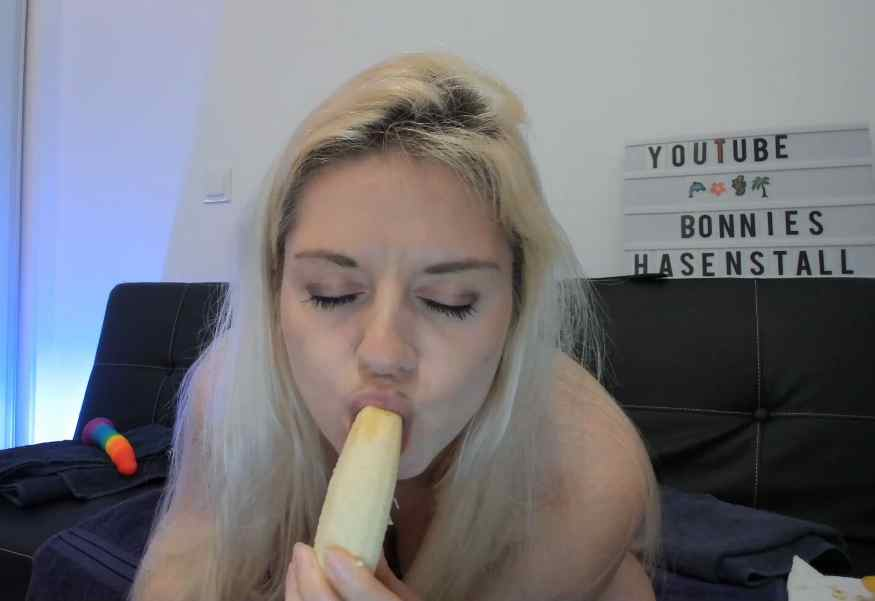
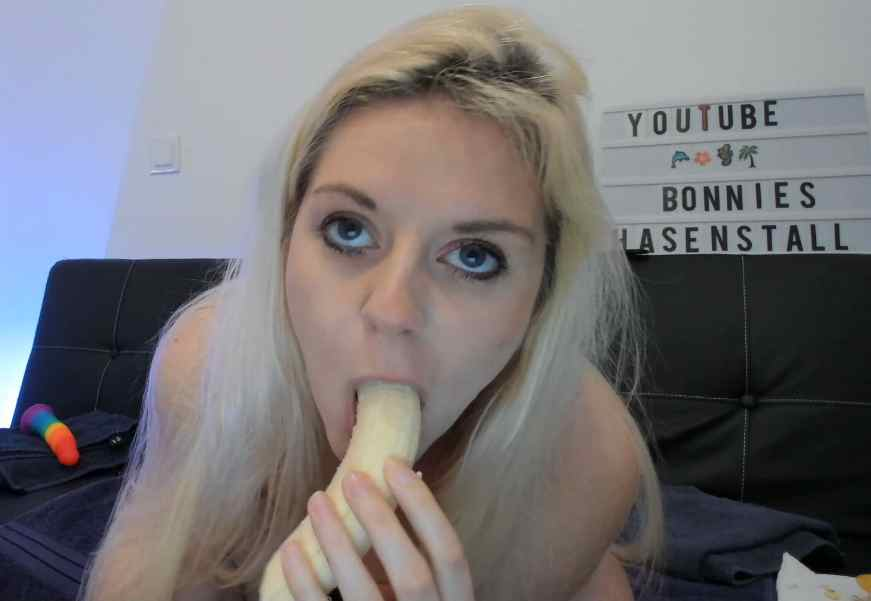
Commit to YOURCURRENTBRANCH

diff --git a/girls/bonnie/_vti_cnf/jungespaar2822.htm b/girls/bonnie/_vti_cnf/jungespaar2822.htm
@@ -1,11 +1,11 @@
 vti_encoding:SR|utf8-nl
 vti_author:SR|Office-PC\\Office
 vti_modifiedby:SR|Office-PC\\Office
-vti_timelastmodified:TR|24 May 2020 07:50:08 -0000
+vti_timelastmodified:TR|24 May 2020 07:59:40 -0000
 vti_timecreated:TR|03 Nov 2019 10:23:31 -0000
 vti_title:SR|Die Livecam der Bonnie (jungespaar2822) live aus Madeira
 vti_extenderversion:SR|12.0.0.0
-vti_nexttolasttimemodified:TW|21 May 2020 07:49:58 -0000
+vti_nexttolasttimemodified:TR|24 May 2020 07:58:58 -0000
 vti_backlinkinfo:VX|index.htm girls/bonnie/jungespaar2822.htm AAAltes\\ Zeug/lisa/index.htm girls/hotbella/index.htm girls/sastina/index.htm girls/index.htm kimilee22/index.htm girls/veronika_rose/index.htm
 vti_syncofs_webcam-darstellerin.com\:21/webcam-darstellerin.com:TW|14 Nov 2019 10:40:54 -0000
 vti_syncwith_webcam-darstellerin.com\:21/webcam-darstellerin.com:TX|12 Nov 2019 11:52:58 -0000
@@ -18,12 +18,12 @@ vti_syncwith_93.104.209.49\:21/%2fhttpdocs/webcam-darstellerin.com:TX|11 Feb 202
 vti_syncofs_93.104.209.49\:21/%2fhttpdocs/webcam-darstellerin.com:TW|11 Feb 2020 15:27:44 -0000
 vti_syncwith_ftpupload.net\:21/%2fwebcam-darstellerin.com/htdocs:TX|11 Feb 2020 15:26:57 -0000
 vti_syncofs_ftpupload.net\:21/%2fwebcam-darstellerin.com/htdocs:TW|14 Feb 2020 19:49:24 -0000
-vti_cacheddtm:TX|24 May 2020 07:50:08 -0000
-vti_filesize:IR|11965
+vti_cacheddtm:TX|24 May 2020 07:59:40 -0000
+vti_filesize:IR|12095
 vti_cachedtitle:SR|Die Livecam der Bonnie (jungespaar2822) live aus Madeira
 vti_cachedbodystyle:SR|<body style="background-color: #FFD7D7; margin-left: 0; margin-right: 0; margin-top: 0;">
-vti_cachedlinkinfo:VX|H|../../index.htm S|../../dateien-deutsche-camgirls/banner.jpg K|jungespaar2822.htm K|jungespaar2822.htm S|jungespaar2822.jpg H|Das\\ deutschsprachige\\ Webcam-Girl\\ Bonnie\\ alias\\ Jungespaar2822\\ sendet\\ live\\ und\\ nackt\\ aus\\ Madeira. K|jungespaar2822.htm -S|https://chaturbate.com/in/ -H|https://chaturbate.com/in/ -S|../zur-livecam.gif -K|bonnie.htm -H|https://amzn.to/2QeJQDh I|bonnie.htm H|https://www.instagram.com/bonnieclyde.cb H|https://twitter.com/bonnieclydecb H|https://www.tiktok.com/@bonnieclydecb H|https://www.twitch.tv/deinbonnietv/ S|https://www.youtube-nocookie.com/embed/ILaV3zYAOng H|https://www.youtube.com/channel/UCDfNbqBCUe9yeG1Pbl1Es5Q H|jungespaar2822.htm H|../../kimilee22/index.htm H|../sastina/index.htm H|../hotbella/index.htm H|../veronika_rose/index.htm H|../index.htm S|jungespaar2822-01.jpg S|../../impressum.gif S|jungespaar2822-bonnie.jpg -H|../../impressum/index.htm -H|../../index.htm -S|//sichere-verbindung.webcam-darstellerin.com/matomo.php I|../../footer.htm
-vti_cachedsvcrellinks:VX|FHUS|index.htm FSUS|dateien-deutsche-camgirls/banner.jpg FKUS|girls/bonnie/jungespaar2822.htm FKUS|girls/bonnie/jungespaar2822.htm FSUS|girls/bonnie/jungespaar2822.jpg NHUS|girls/bonnie/Das\\ deutschsprachige\\ Webcam-Girl\\ Bonnie\\ alias\\ Jungespaar2822\\ sendet\\ live\\ und\\ nackt\\ aus\\ Madeira. FKUS|girls/bonnie/jungespaar2822.htm FIUS|girls/bonnie/bonnie.htm NHSS|https://www.instagram.com/bonnieclyde.cb NHSS|https://twitter.com/bonnieclydecb NHSS|https://www.tiktok.com/@bonnieclydecb NHSS|https://www.twitch.tv/deinbonnietv/ NSSS|https://www.youtube-nocookie.com/embed/ILaV3zYAOng NHSS|https://www.youtube.com/channel/UCDfNbqBCUe9yeG1Pbl1Es5Q FHUS|girls/bonnie/jungespaar2822.htm FHUS|kimilee22/index.htm FHUS|girls/sastina/index.htm FHUS|girls/hotbella/index.htm FHUS|girls/veronika_rose/index.htm FHUS|girls/index.htm FSUS|girls/bonnie/jungespaar2822-01.jpg FSUS|impressum.gif FSUS|girls/bonnie/jungespaar2822-bonnie.jpg FIUS|footer.htm
+vti_cachedlinkinfo:VX|H|../../index.htm S|../../dateien-deutsche-camgirls/banner.jpg K|jungespaar2822.htm K|jungespaar2822.htm S|jungespaar2822.jpg H|Das\\ deutschsprachige\\ Webcam-Girl\\ Bonnie\\ alias\\ Jungespaar2822\\ sendet\\ live\\ und\\ nackt\\ aus\\ Madeira. K|jungespaar2822.htm -S|https://chaturbate.com/in/ -H|https://chaturbate.com/in/ -S|../zur-livecam.gif -K|bonnie.htm -H|https://amzn.to/2QeJQDh I|bonnie.htm H|https://www.instagram.com/bonnieclyde.cb H|https://twitter.com/bonnieclydecb H|https://www.tiktok.com/@bonnieclydecb H|https://www.twitch.tv/deinbonnietv/ S|https://www.youtube-nocookie.com/embed/ILaV3zYAOng H|https://www.youtube.com/channel/UCDfNbqBCUe9yeG1Pbl1Es5Q H|jungespaar2822.htm H|../../kimilee22/index.htm H|../sastina/index.htm H|../hotbella/index.htm H|../veronika_rose/index.htm H|../index.htm S|jungespaar2822-bonnie.jpg S|../../impressum.gif H|https://live.streamerin.de/deinbonnietv S|deinbonnietv.jpg -H|../../impressum/index.htm -H|../../index.htm -S|//sichere-verbindung.webcam-darstellerin.com/matomo.php I|../../footer.htm
+vti_cachedsvcrellinks:VX|FHUS|index.htm FSUS|dateien-deutsche-camgirls/banner.jpg FKUS|girls/bonnie/jungespaar2822.htm FKUS|girls/bonnie/jungespaar2822.htm FSUS|girls/bonnie/jungespaar2822.jpg NHUS|girls/bonnie/Das\\ deutschsprachige\\ Webcam-Girl\\ Bonnie\\ alias\\ Jungespaar2822\\ sendet\\ live\\ und\\ nackt\\ aus\\ Madeira. FKUS|girls/bonnie/jungespaar2822.htm FIUS|girls/bonnie/bonnie.htm NHSS|https://www.instagram.com/bonnieclyde.cb NHSS|https://twitter.com/bonnieclydecb NHSS|https://www.tiktok.com/@bonnieclydecb NHSS|https://www.twitch.tv/deinbonnietv/ NSSS|https://www.youtube-nocookie.com/embed/ILaV3zYAOng NHSS|https://www.youtube.com/channel/UCDfNbqBCUe9yeG1Pbl1Es5Q FHUS|girls/bonnie/jungespaar2822.htm FHUS|kimilee22/index.htm FHUS|girls/sastina/index.htm FHUS|girls/hotbella/index.htm FHUS|girls/veronika_rose/index.htm FHUS|girls/index.htm FSUS|girls/bonnie/jungespaar2822-bonnie.jpg FSUS|impressum.gif NHSS|https://live.streamerin.de/deinbonnietv FSUS|girls/bonnie/deinbonnietv.jpg FIUS|footer.htm
 vti_cachedneedsrewrite:BR|true
 vti_cachedhasbots:BR|true
 vti_cachedhastheme:BR|false

diff --git a/girls/bonnie/jungespaar2822.htm b/girls/bonnie/jungespaar2822.htm
@@ -106,6 +106,9 @@ a {
 	font-size: 16pt;
 	color: #AE1010;
 }
+.auto-style91 {
+	border-width: 0px;
+}
 </style>
 <meta content="Jungespaar2822,Livecam,Bonnie,Livestream,Webcamgirl,Webcam-Girl,Webcam-Darstellerin,Erotikdarstellerin,deutsch,deutschsprachig" name="keywords">
 <meta content="Das deutschsprachige Webcam-Girl Bonnie alias Jungespaar2822 sorgt mit seinen denkwürdigen Erotik-Livestreams auf Chaturbate für Furore." name="description">
@@ -239,11 +242,12 @@ a {
 	<p class="auto-style79">
 	<a href="../index.htm" target="_self">deutschsprachige Webcam-Girls</a></p>
 	<p class="auto-style88">
-	<img alt="Bonnie alias Webcam-Girl Jungespaar2822 bläst eine Banane." height="2" src="jungespaar2822-01.jpg" width="568"></p>
+	<img alt="Bonnie alias Webcam-Girl Jungespaar2822 bläst eine Banane." height="2" src="jungespaar2822-bonnie.jpg" width="568"></p>
 	<p class="auto-style79">
 	<img src="../../impressum.gif" alt="Bonnie alias Jungespaar2822 - Ein deutschsprachiges Webcam-Girl."></p>
 	<p class="auto-style87">
-	<img alt="Eine glückliche Banane, geblasen von Jungespaar2822." height="2" src="jungespaar2822-bonnie.jpg" width="568"></p>
+	<a href="https://live.streamerin.de/deinbonnietv" target="_blank">
+	<img alt="Eine glückliche Banane, geblasen von Jungespaar2822." height="2" src="deinbonnietv.jpg" width="568" class="auto-style91"></a></p>
 
 </div>
 
